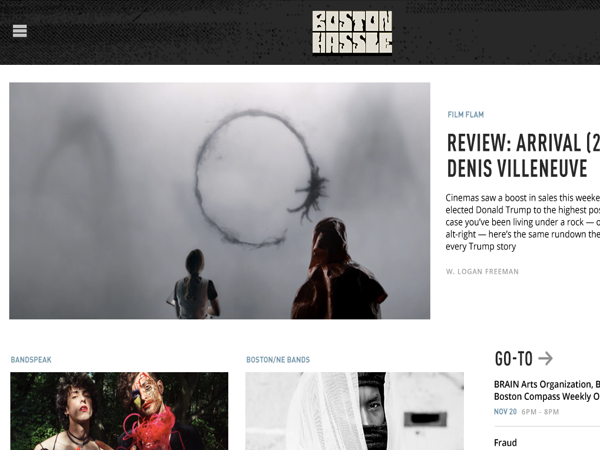
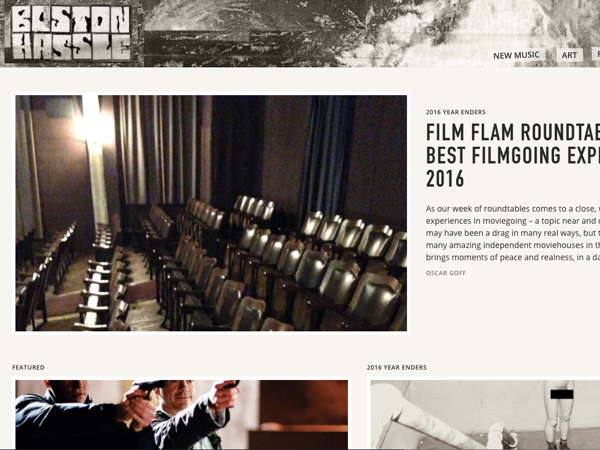
create README. update screenshot.

diff --git a/README.md b/README.md
@@ -1,0 +1,35 @@
+# Boston Hassle
+
+## WordPress Theme
+
+Author: [Kay Belardinelli](http://kangabell.co)
+
+Version: 1.0
+
+2016
+
+![Screenshot of Website](screenshot.png)
+
+
+### Required Plugins
+
+- Advanced Custom Fields
+- Cookie Consent
+- The Events Calendar
+
+
+### Other Required Stuff
+
+- [WordPress](https://wordpress.org/)
+- [compass](http://compass-style.org/install/)
+
+
+### Developer Notes
+
+The CSS on this project was written in Sass and compiled using Compass. The CSS files are not tracked in this repo, so you will need to run the compiler to have the website not look terrible in your environment. Please do not edit the CSS files directly!
+
+NOTE: If you make changes to the theme and are not using versioning such as Git for whatever reason, please log your changes below!
+
+
+### Changelog
+
